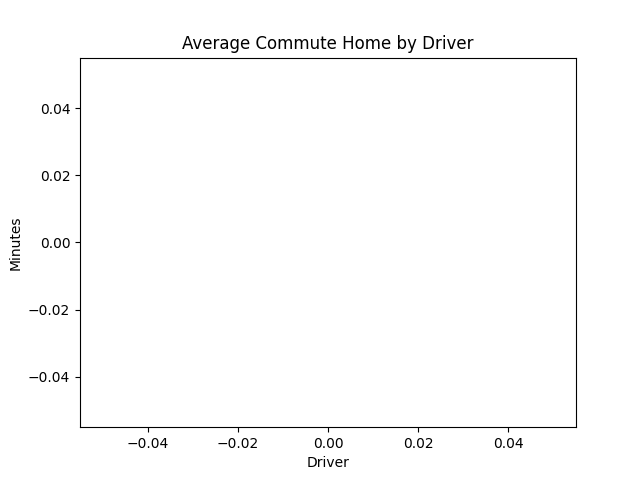
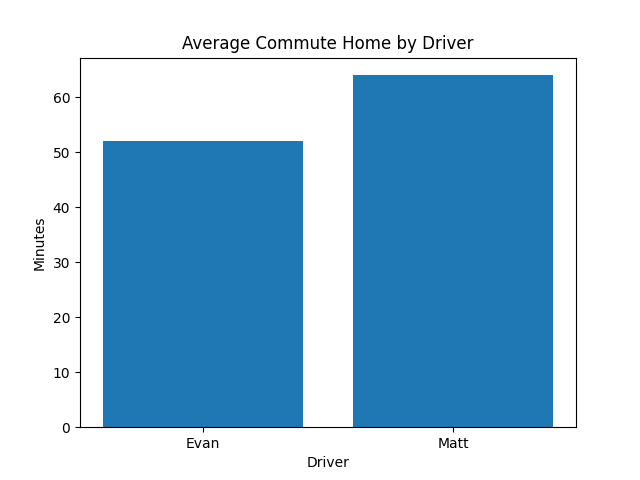
fixed bug creating empty graphs

diff --git a/processResults.py b/processResults.py
@@ -4,6 +4,11 @@ import pandas as pd
 # Read CSV
 df = pd.read_csv('/opt/jericho-flask/traveltime/traveltime.csv')
 
+# Make leave time and arrive time and direction columns all lower case
+df['LEAVE_TIME'] = df['LEAVE_TIME'].str.lower()
+df['ARRIVE_TIME'] = df['ARRIVE_TIME'].str.lower()
+df['DIRECTION'] = df['DIRECTION'].str.lower()
+
 # Convert dates
 df['DATE'] = pd.to_datetime(df['DATE'], format='%Y-%m-%d')
 df['LEAVE_TIME'] = pd.to_datetime(df['LEAVE_TIME'], format='%I:%M%p')
